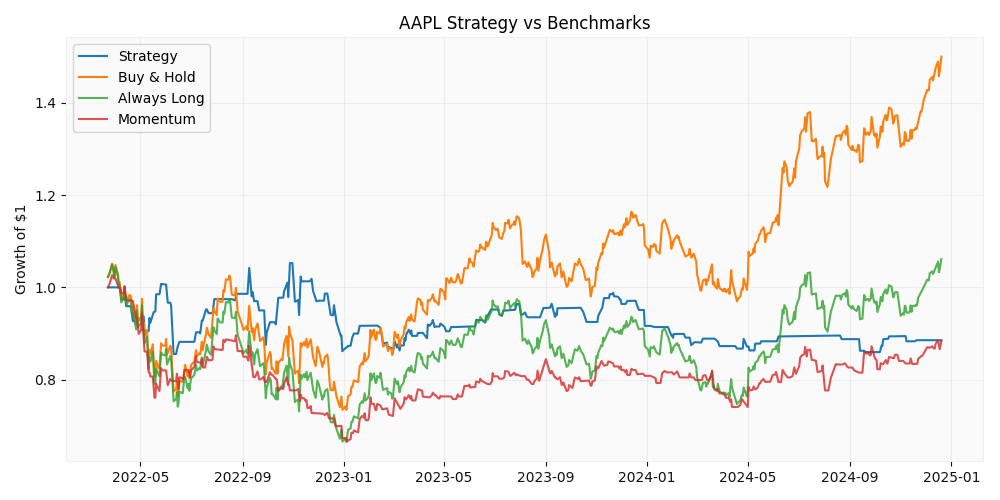
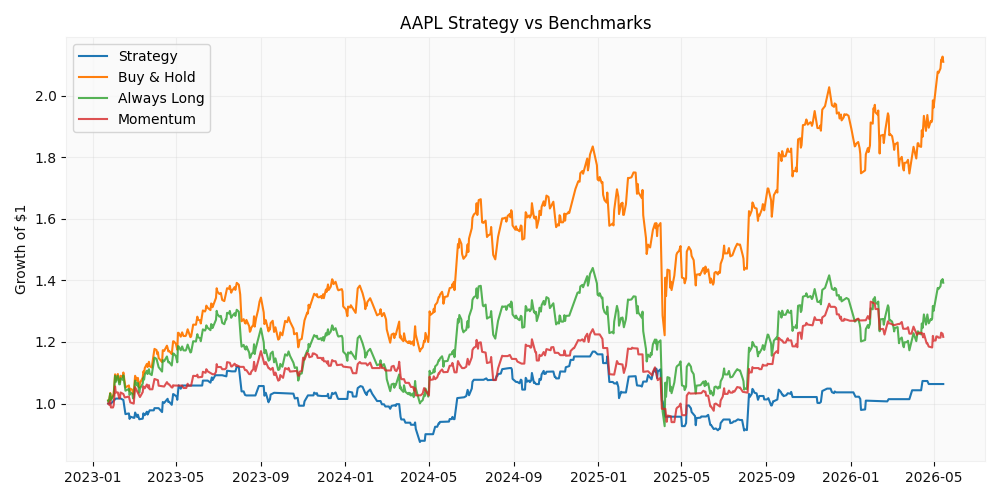
Sync website analytics with latest XGBoost visuals

diff --git a/app/page.js b/app/page.js
@@ -388,7 +388,7 @@ export default function HomePage() {
       <section className="section-stack">
         <div className="section-header">
           <h2>Visual Analytics</h2>
-          <p>Sample research outputs from the Python pipeline.</p>
+          <p>Latest public AAPL XGBoost research outputs from the Python pipeline.</p>
         </div>
         <div className="visual-grid visual-grid-wide">
           <VisualCard
@@ -404,28 +404,28 @@ export default function HomePage() {
             }
           />
           <VisualCard
-            src="/images/aapl_lstm_equity_curve.png"
-            alt="AAPL LSTM Equity Curve"
-            title="LSTM Strategy vs Benchmarks"
+            src="/images/aapl_xgboost_probabilities.png"
+            alt="AAPL XGBoost Probability Distribution"
+            title="XGBoost Probability Distribution"
             onOpen={() =>
               setActiveVisual({
-                src: "/images/aapl_lstm_equity_curve.png",
-                alt: "AAPL LSTM Equity Curve",
-                title: "LSTM Strategy vs Benchmarks"
+                src: "/images/aapl_xgboost_probabilities.png",
+                alt: "AAPL XGBoost Probability Distribution",
+                title: "XGBoost Probability Distribution"
               })
             }
           />
         </div>
         <div className="visual-grid visual-grid-square">
           <VisualCard
-            src="/images/aapl_random_forest_confusion_matrix.png"
-            alt="Random Forest Confusion Matrix"
-            title="Random Forest Confusion Matrix"
+            src="/images/aapl_xgboost_confusion_matrix.png"
+            alt="XGBoost Confusion Matrix"
+            title="XGBoost Confusion Matrix"
             onOpen={() =>
               setActiveVisual({
-                src: "/images/aapl_random_forest_confusion_matrix.png",
-                alt: "Random Forest Confusion Matrix",
-                title: "Random Forest Confusion Matrix"
+                src: "/images/aapl_xgboost_confusion_matrix.png",
+                alt: "XGBoost Confusion Matrix",
+                title: "XGBoost Confusion Matrix"
               })
             }
           />